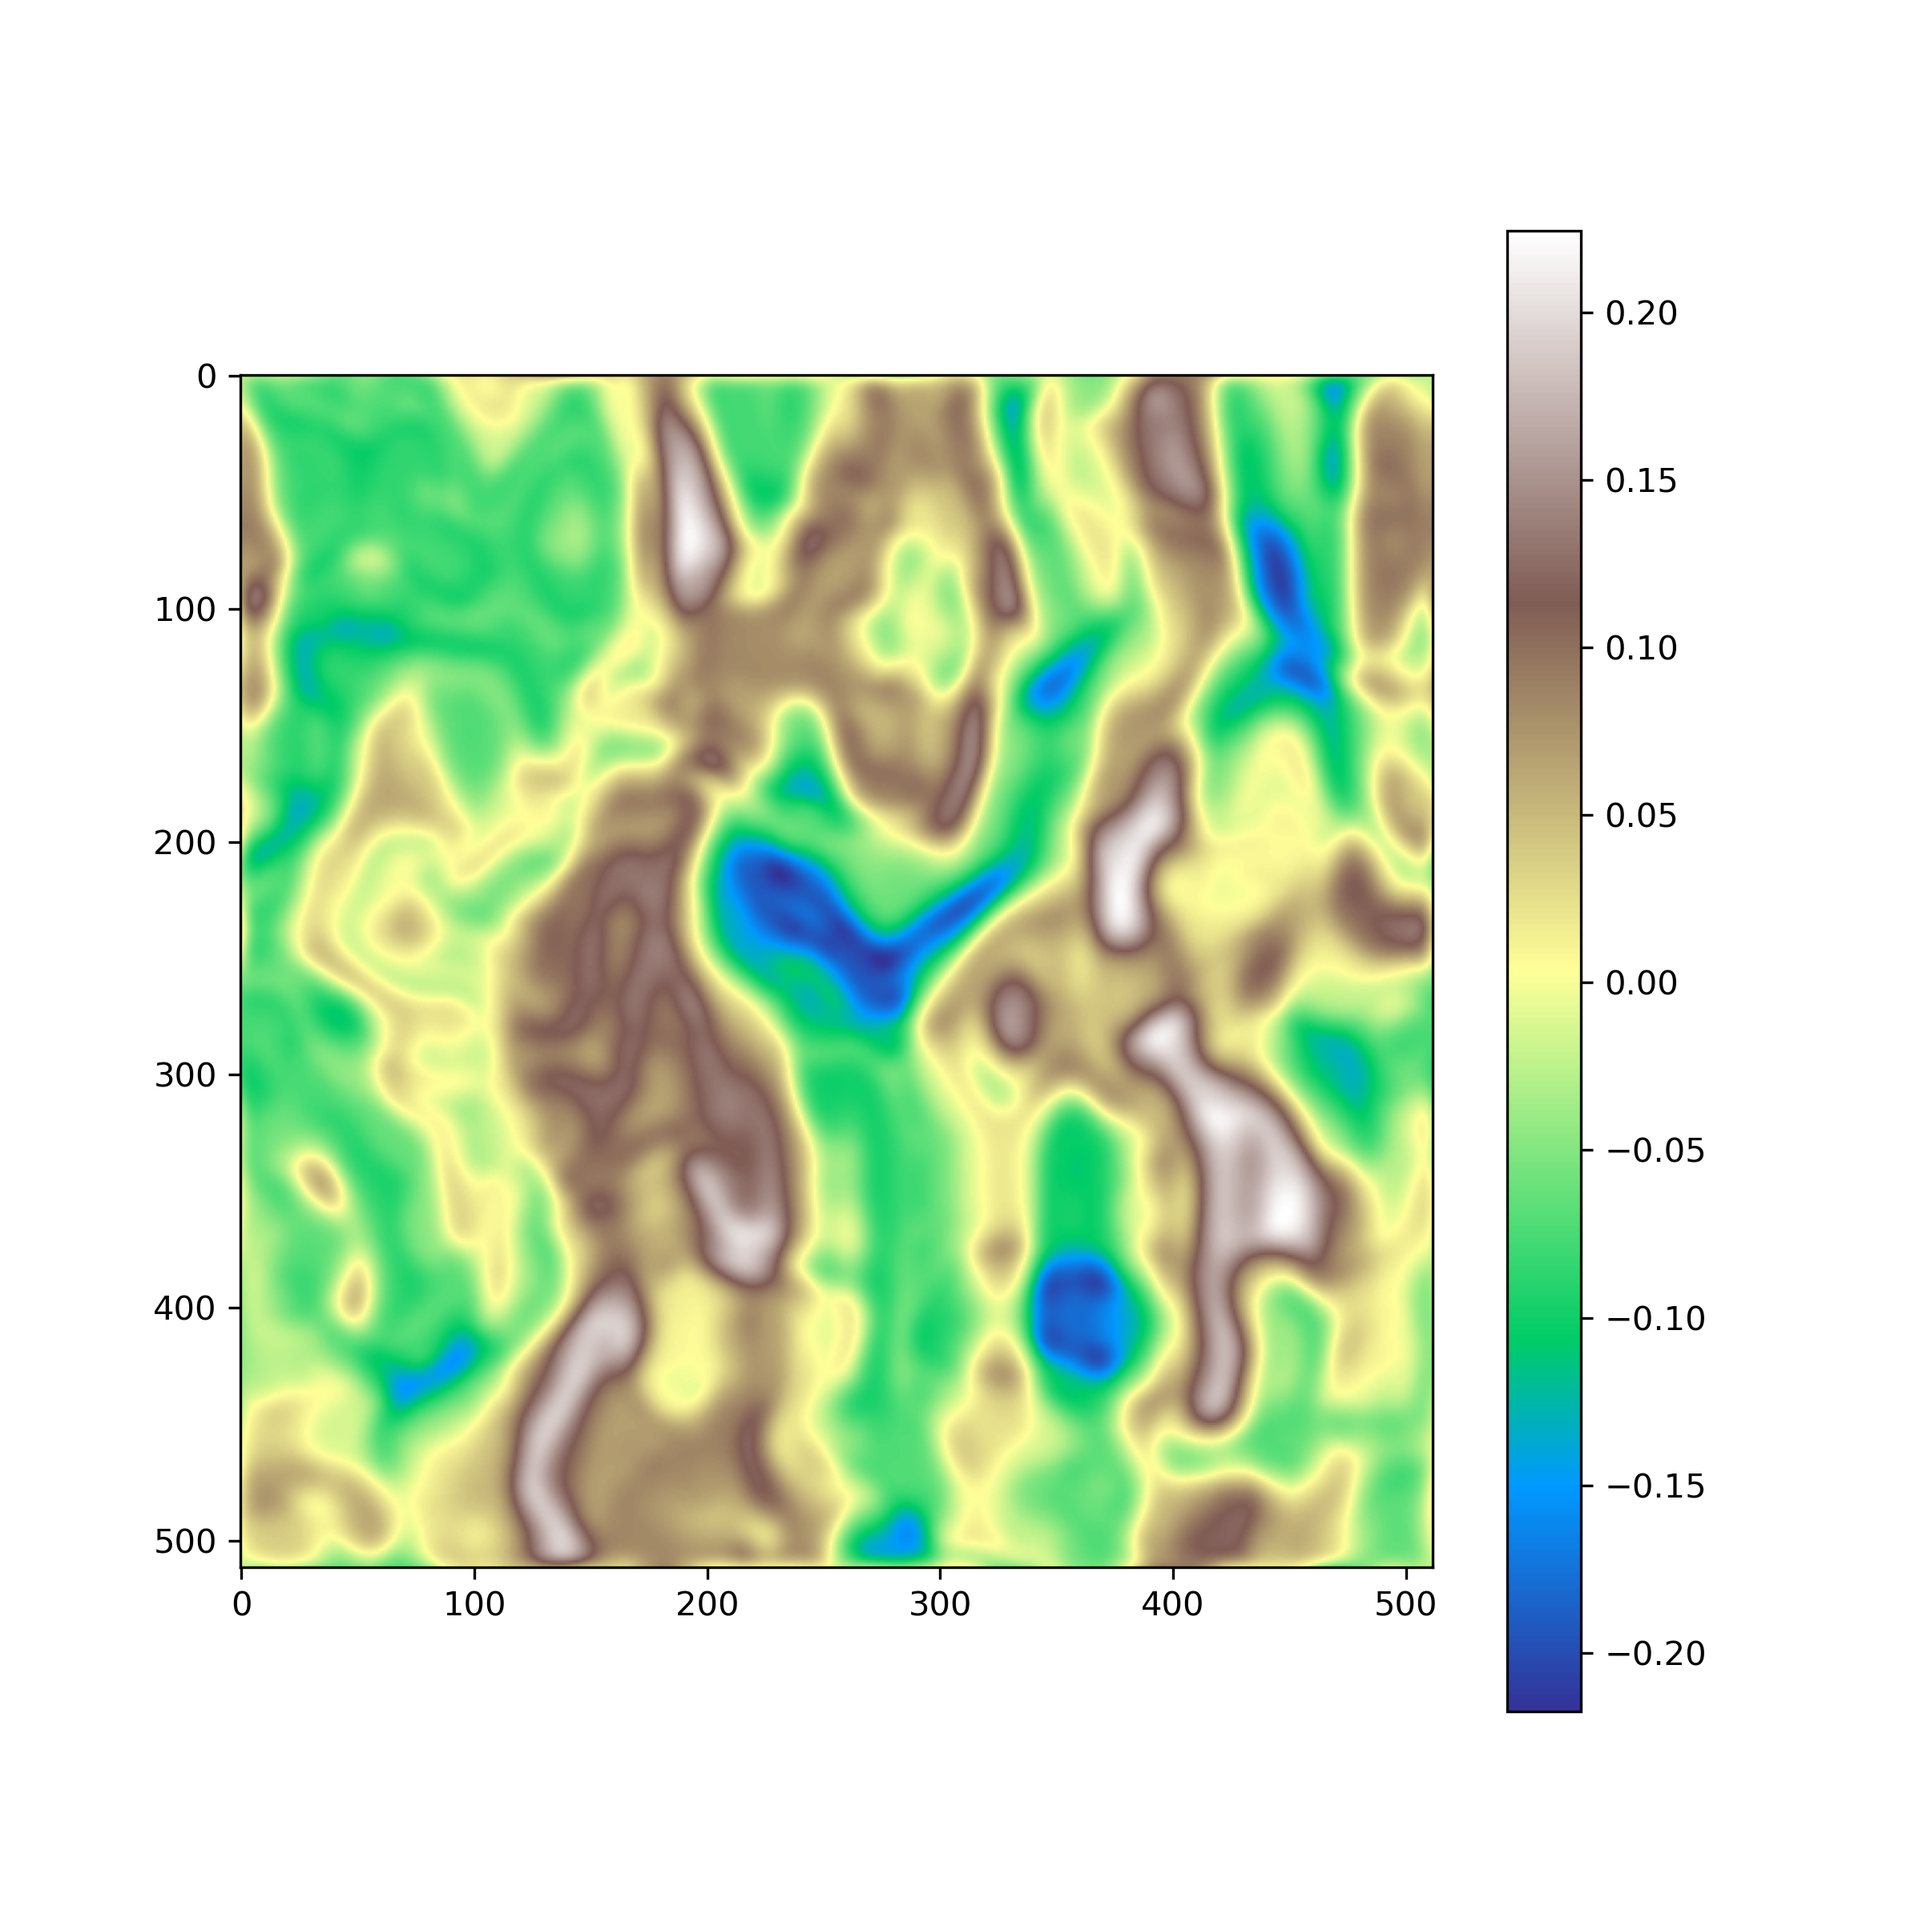
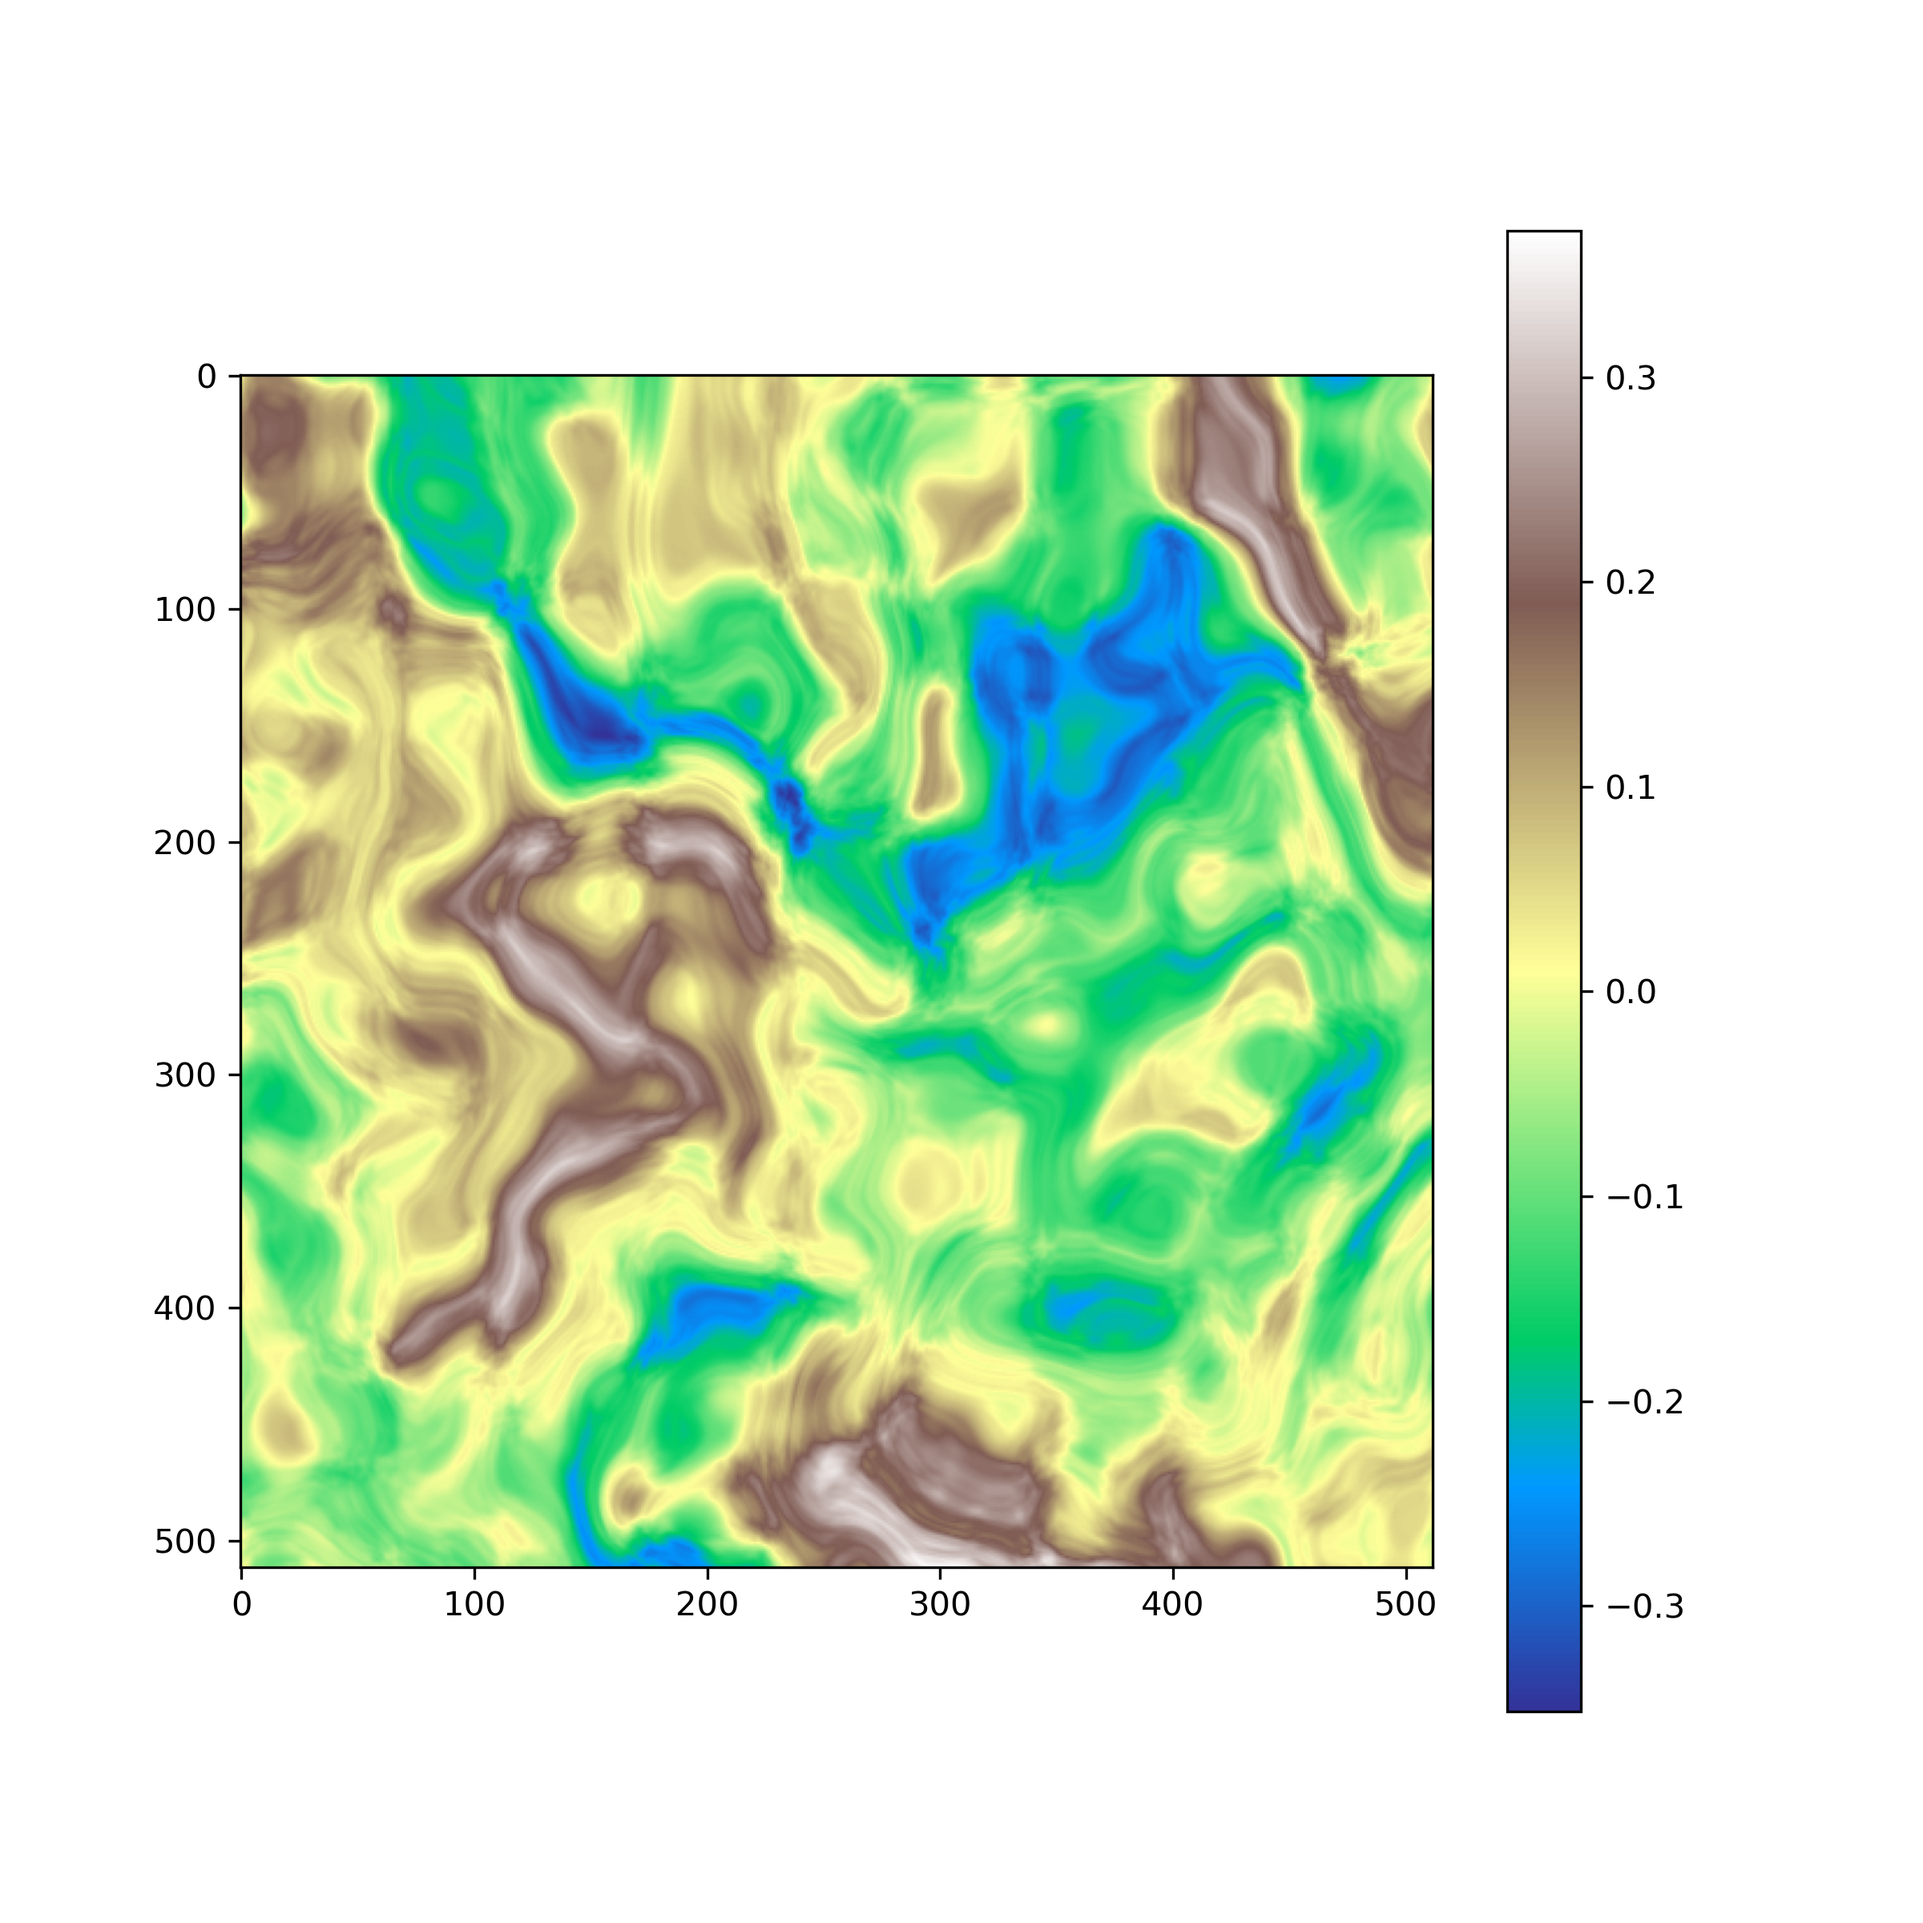
created new examples without post smoothing

diff --git a/terrain.py b/terrain.py
@@ -19,7 +19,8 @@ def create_terrain(rng:np.random.Generator)->np.ndarray:
             ny2=ny+0.8*wy
             elevation=pnoise2(nx2*2,ny2*2,octaves=6,base=bases[2])
             terrain[y,x]=elevation
-    return gaussian_filter(terrain,4,mode="wrap")
+    #terrain=gaussian_filter(terrain,4,mode="wrap")
+    return terrain
 
 def save_terrain(terrain:np.ndarray,
                  filename_prefix:str):
